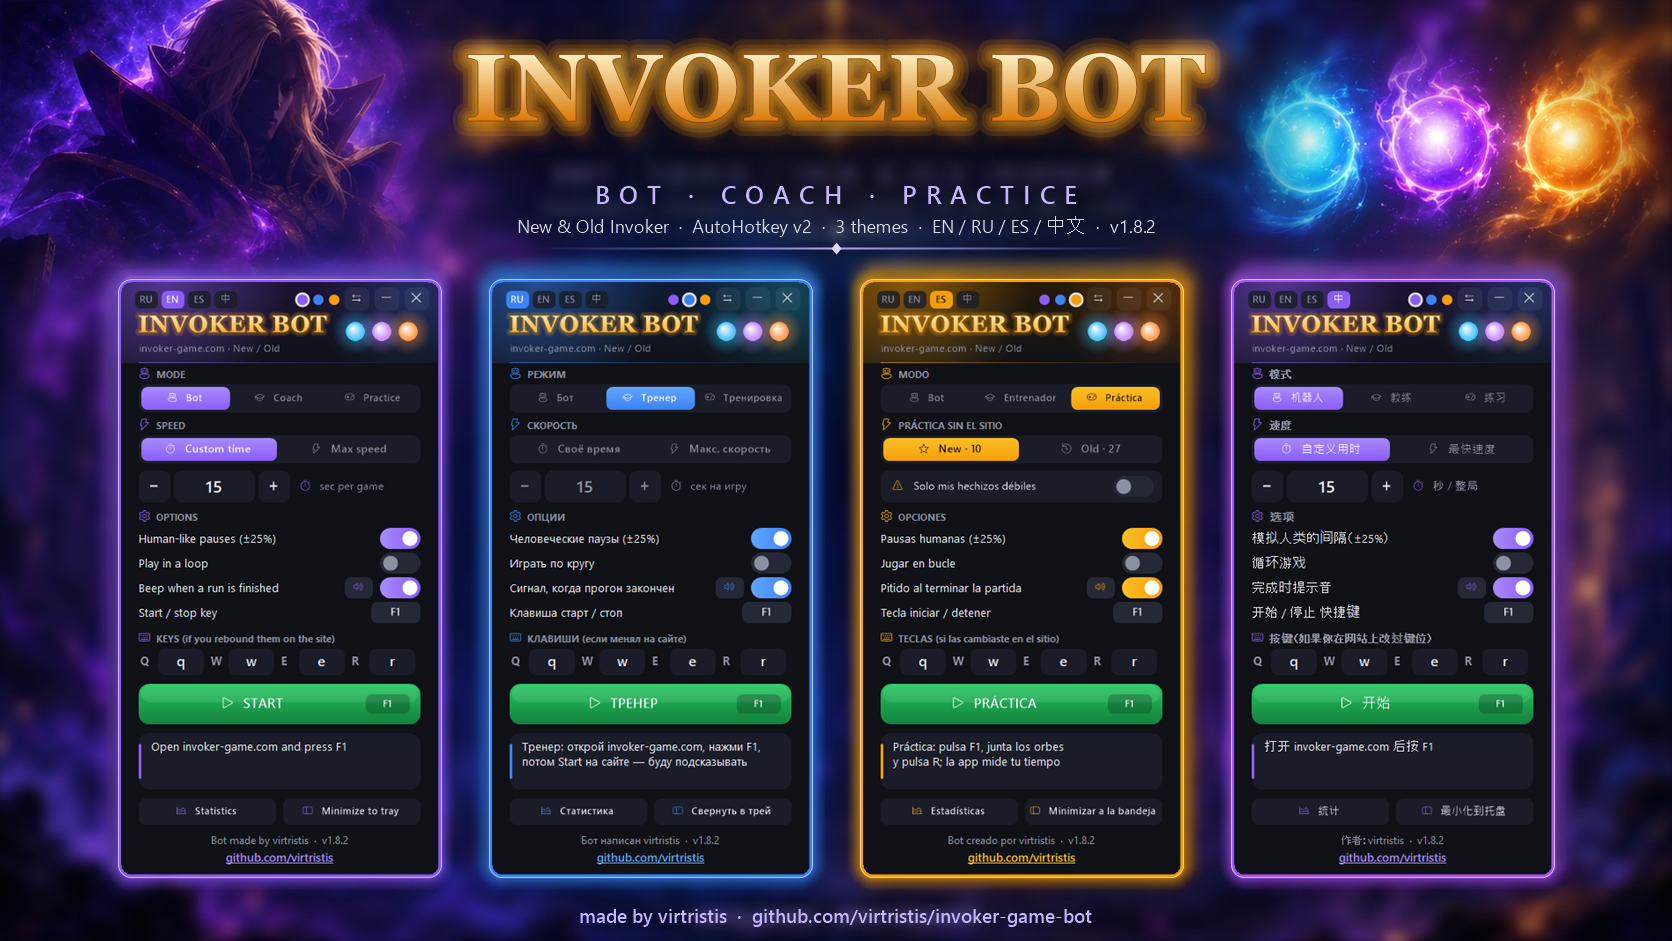
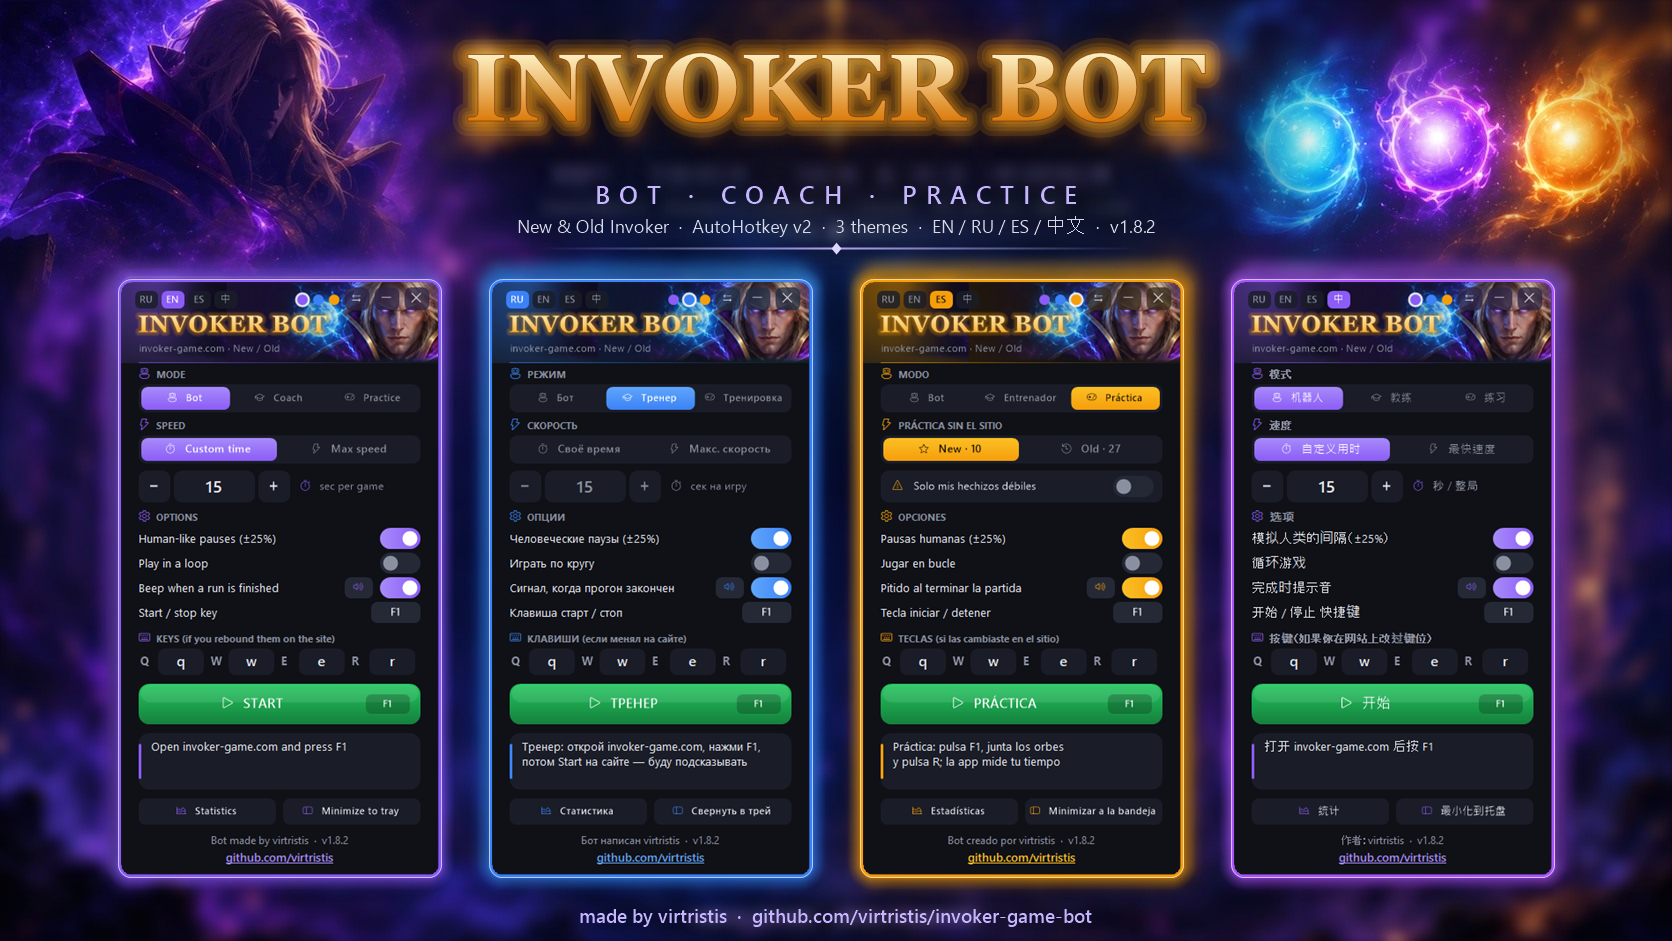
Header: painted Invoker (middle of the horizontal header, right side of the vertical one), built into the exe; images updated

diff --git a/CHANGELOG.md b/CHANGELOG.md
@@ -5,7 +5,7 @@ All notable changes to this project are documented here.
 ## [Unreleased]
 
 ### Added
-- **Invoker in the header of the horizontal layout**: the portrait from the intro, drawn in dots in the colour of the theme, fills the empty middle of the header.
+- **Invoker in the header**: a painted Invoker with the Quas and Exort orbs fills the empty middle of the header in the horizontal layout and takes the place of the three small orbs in the vertical one (`assets/header.png`, built into the `.exe`).
 - **The website in Español and 中文**, next to English and Русский.
 - **A GIF of a full practice run** in the README and on the website. It is made by the app itself: `--selftest drill-gif` plays a practice run on a virtual clock and saves the frames, `tools/make-gif.ps1` (with `tools/GifWriter.cs`) turns them into a small GIF.
 
